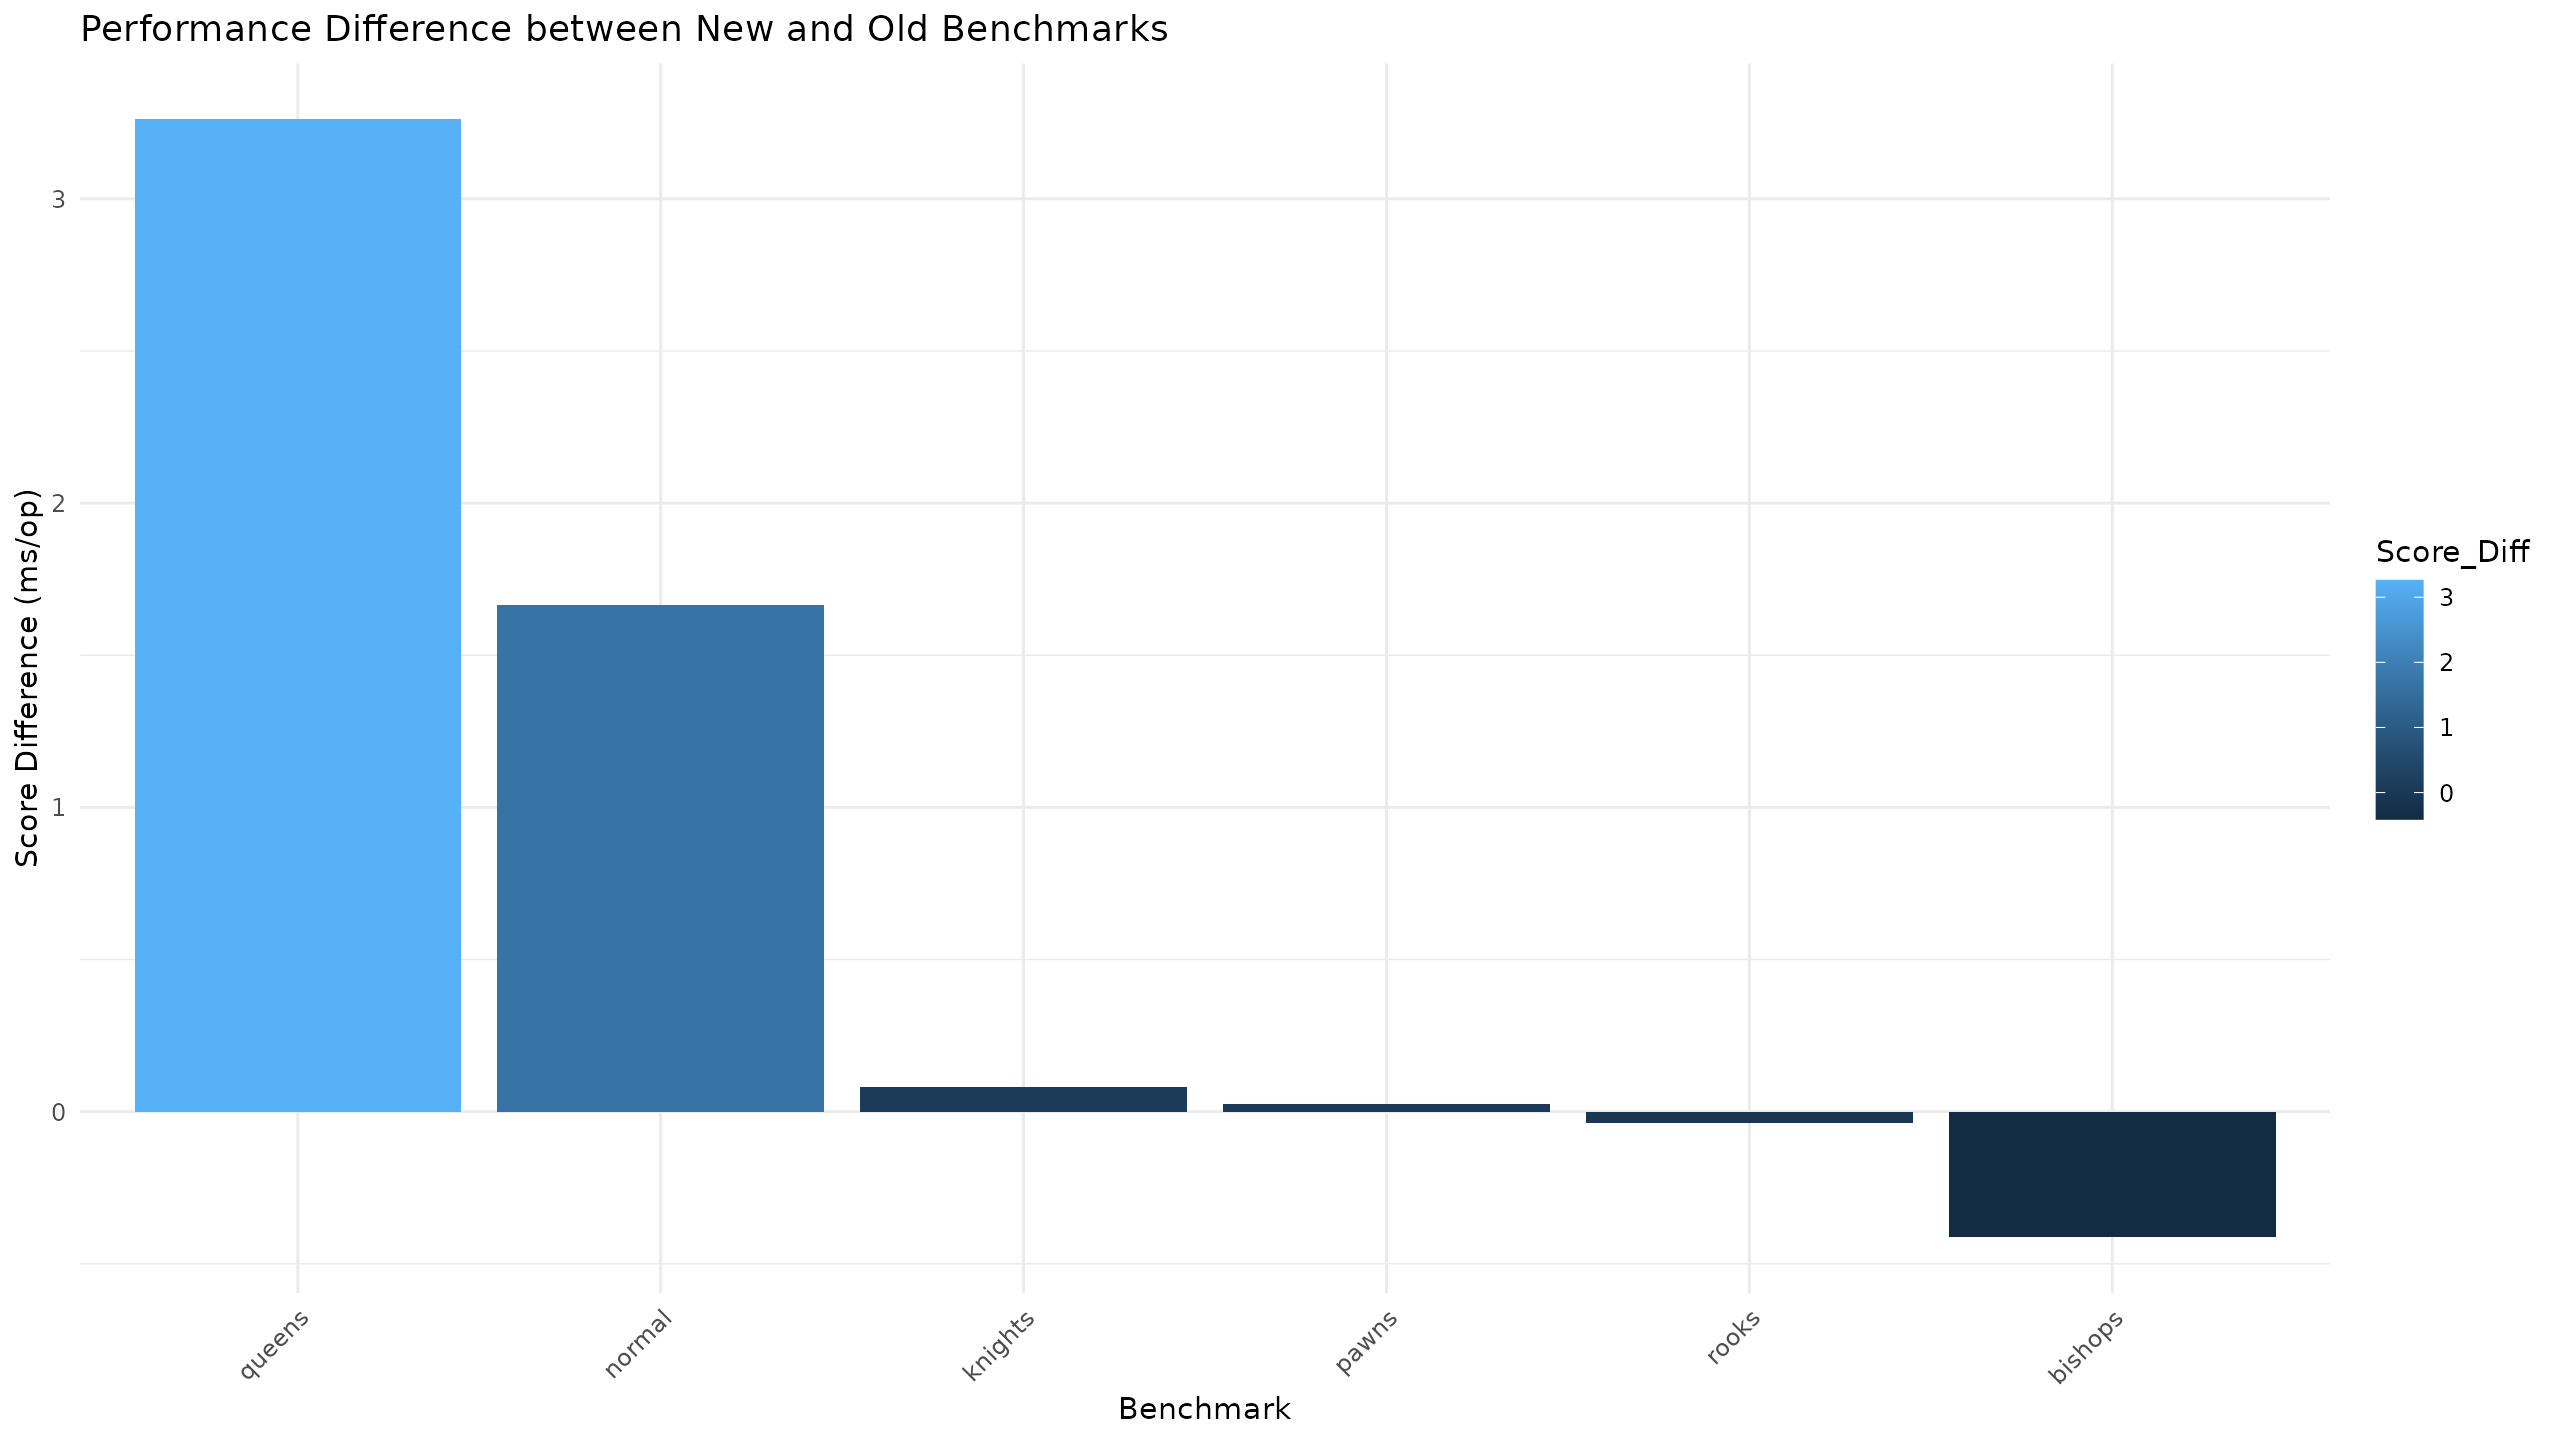
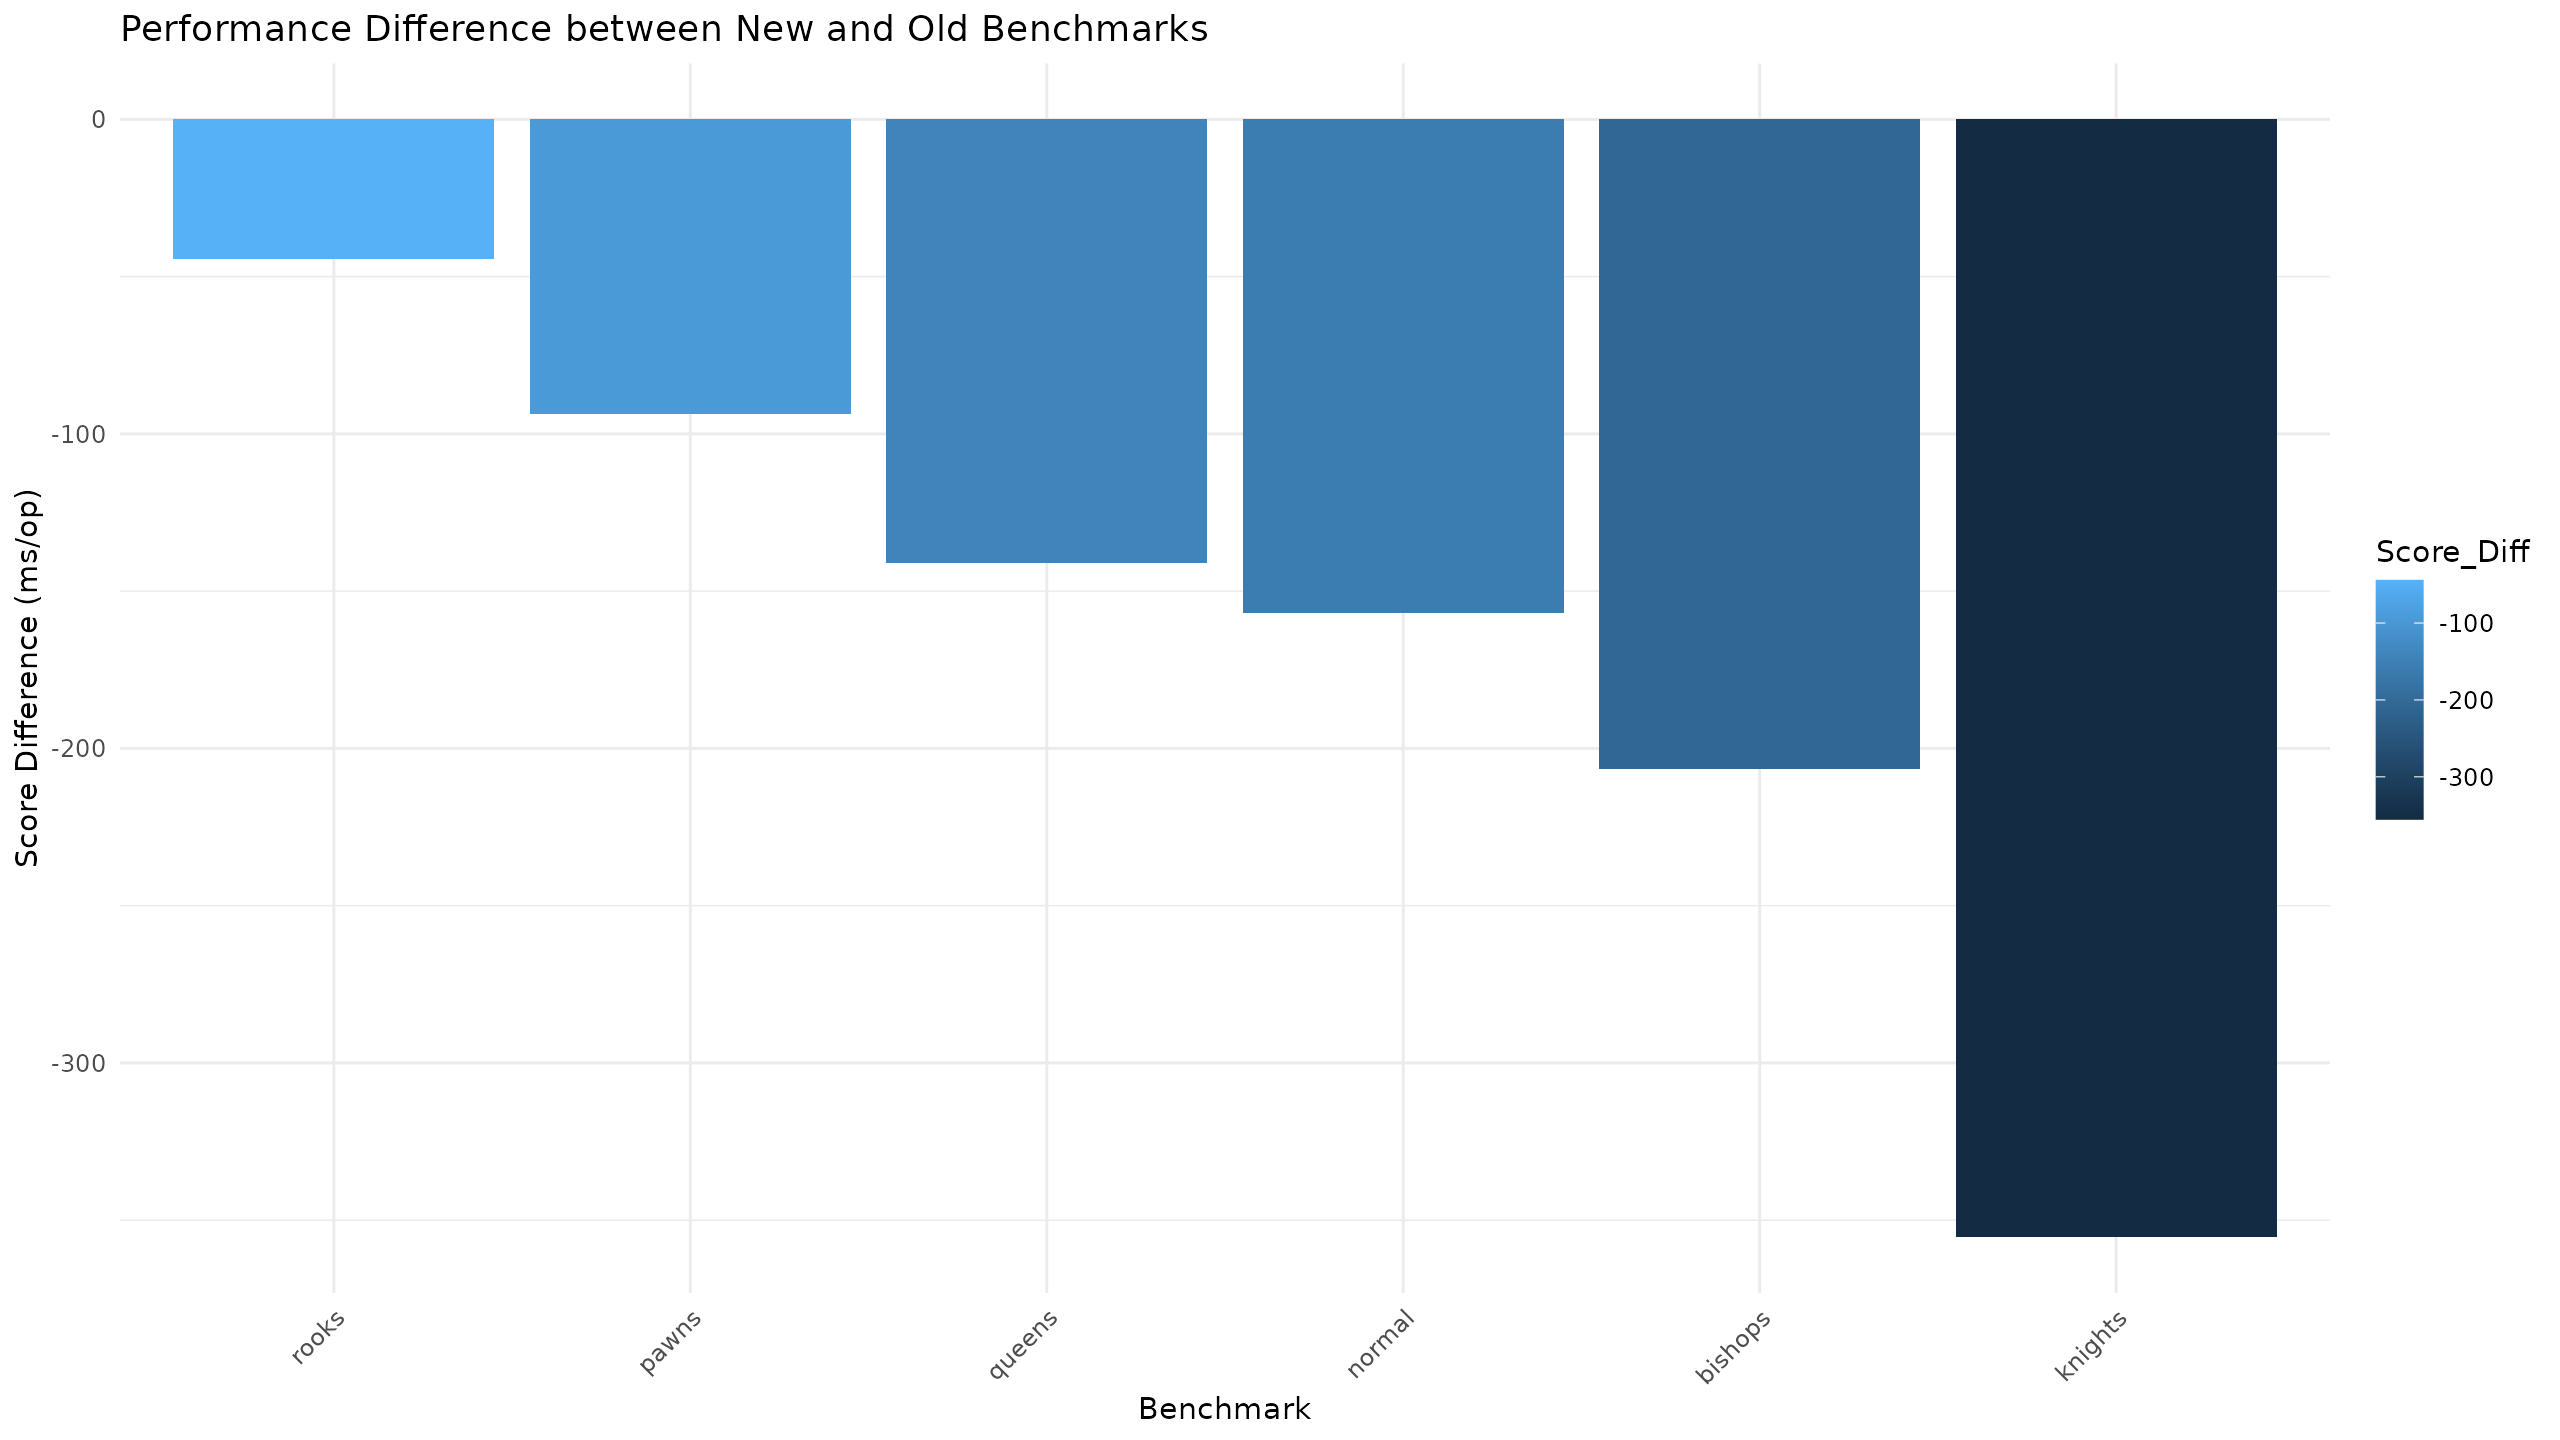
docs: Updated comparison, adjust benchmark params

diff --git a/src/jmh/java/rosemary/PerftBenchmark.java b/src/jmh/java/rosemary/PerftBenchmark.java
@@ -6,15 +6,15 @@ import rosemary.board.*;
 @Fork(1)
 @OutputTimeUnit(java.util.concurrent.TimeUnit.MILLISECONDS)
 @BenchmarkMode(Mode.AverageTime)
-@Warmup(iterations = 5, time = 250, timeUnit = java.util.concurrent.TimeUnit.MILLISECONDS)
-@Measurement(iterations = 10, time = 500, timeUnit = java.util.concurrent.TimeUnit.MILLISECONDS)
+@Warmup(iterations = 3, time = 250, timeUnit = java.util.concurrent.TimeUnit.MILLISECONDS)
+@Measurement(iterations = 5, time = 500, timeUnit = java.util.concurrent.TimeUnit.MILLISECONDS)
 @State(Scope.Benchmark)
 public class PerftBenchmark {
 
     @Benchmark
     public void position_pawns() {
         PerftRunner.perft(
-                4,
+                7,
                 false,
                 new BoardState("8/5kpp/4p3/5P2/5p2/4P3/5KPP/8 w - - 0 1")); // 4 pawns each side
     }
@@ -22,31 +22,31 @@ public class PerftBenchmark {
     @Benchmark
     public void position_rooks() {
         PerftRunner.perft(
-                4,
+                5,
                 false,
-                new BoardState("1k6/2r5/R5R1/4r3/8/6R1/1K6/2r5 w - - 0 1")); // 3 rooks each side
+                new BoardState("1k6/2r5/R7/4r3/8/6R1/1K6/8 w - - 0 1")); // 2 rooks each side
     }
 
     @Benchmark
     public void position_bishops() {
         PerftRunner.perft(
-                4,
+                6,
                 false,
-                new BoardState("k7/4B3/5b2/7B/2b5/4B3/1b6/7K w - - 0 1")); // 3 bishops each side
+                new BoardState("k7/8/5b2/7B/8/4B3/1b6/7K w - - 0 1")); // 2 bishops each side
     }
 
     @Benchmark
     public void position_queens() {
         PerftRunner.perft(
-                4,
+                5,
                 false,
-                new BoardState("k7/4Q3/5q2/7Q/2q5/4Q3/1q6/7K w - - 0 1")); // 3 queens each side
+                new BoardState("k7/4Q3/5q2/8/2q5/4Q3/8/7K w - - 0 1")); // 2 queens each side
     }
 
     @Benchmark
     public void position_knights() {
         PerftRunner.perft(
-                4,
+                6,
                 false,
                 new BoardState("6k1/5n2/6N1/1n4n1/3N4/8/2N5/1K6 w - - 0 1")); // 3 knights each side
     }
@@ -54,7 +54,7 @@ public class PerftBenchmark {
     @Benchmark
     public void position_normal() {
         PerftRunner.perft(
-                4,
+                5,
                 false,
                 new BoardState(
                         "r1bq1rk1/ppp2pp1/2n1pn1p/b2p4/3P1B2/2P1PN2/PP1NBPPP/R2Q1RK1 w - - 2 9"));
